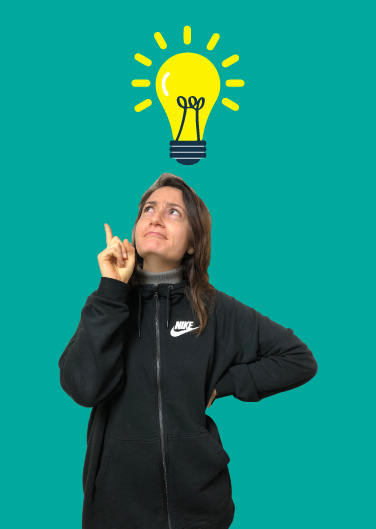
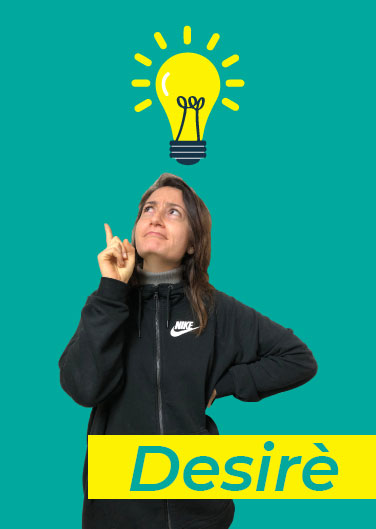
staff ok

diff --git a/style.css b/style.css
@@ -11,7 +11,7 @@
     margin: 0;
     font-family: 'Montserrat', sans-serif;
     color: #2d2d2d;
-    font-size: 12px;
+    font-size: 16px;
 }
 img{
     max-width: 100%;
@@ -91,7 +91,7 @@ header nav .activedifferent{
 div.box{
     background-color: rgba(255, 255, 255, 0.7);
     width: 500px;
-    height: 200px;
+    height: 270px;
     padding: 30px;
     position: relative;
     color: #2d2d2d;
@@ -129,7 +129,7 @@ main h2.titolo-main{
 }
 main article p{
     padding-top: 20px;
-    height: 100px;
+    height: 150px;
 }
 main a{
     text-decoration: none;
@@ -366,13 +366,16 @@ img{
     }
 }
 /* pagina staff */
-.pos1{
-    position: relative;
-}
-.pos2{
-    position: absolute;
-    bottom: 45px;
-    color: #ffffff;
+.banner1{
+    width: 100%;
+    height: 700px;
+    background: url(immagini/staff1.jpg) no-repeat center center;
+    background-size: cover;
+    display: flex;
+    justify-content: center;
+    justify-items: center;
+    align-content: center;
+    align-items: center;
 }
 #btntomain{
     padding-top: 80px;
@@ -382,26 +385,57 @@ img{
     text-align: center;
     font-weight: 600;
     text-shadow: 2px 1px 10px #2d2d2d;
+    color: white;
 }
-aside div.pos2 h2 a{
-    color: #ffffff;
+.container{
+    width: 50%;
+    margin: 2rem auto;
+    display:grid;
+    grid-template-columns: 1fr 1fr;
+    row-gap: 50px;
 }
-main div.displayflex{
-    display: flex;
-    flex-wrap: wrap;
-    justify-content: center;
-}
-main div.displayflex img{
+.boxdescrizione1, 
+.boxdescrizione2{
+    color: #2d2d2d;
+    padding: 10%;
     width: 376px;
     height: 529px;
-    margin: 0 40px 80px 40px;
+}
+.titolo-persona{
+    font-size: 2rem;
+}
+.boxdescrizione1{
+    background-color: #00a99d;
+}
+.boxdescrizione2{
+    background-color: #fdf300;
+}
+main figure img{
     filter: grayscale(100%);
 }
-main div.displayflex img:hover{
+#cambiosara{
+    background: url(immagini/saraspenta.jpg);width:376px;height:529px;display:block;text-indent: -9999px;}
+#cambiosara:hover{
+    background: url(immagini/saraaccesa.jpg);
     filter: none;
-    width: 376px;
-    height: 529px;
-    background: url(immagini/saraaccesa.jpg) no-repeat;
+}
+#cambiolinda{
+    background: url(immagini/lindaspenta.jpg);width:376px;height:529px;display:block;text-indent: -9999px;}
+#cambiolinda:hover{
+    background: url(immagini/lindaaccesa.jpg);
+    filter: none;
+}
+#cambiolavi{
+    background: url(immagini/lavispenta.jpg);width:376px;height:529px;display:block;text-indent: -9999px;}
+#cambiolavi:hover{
+    background: url(immagini/laviaccesa.jpg);
+    filter: none;
+}
+#cambiodesi{
+    background: url(immagini/desispenta.jpg);width:376px;height:529px;display:block;text-indent: -9999px;}
+#cambiodesi:hover{
+    background: url(immagini/desiaccesa.jpg);
+    filter: none;
 }
 /* Pagina Registrati */
 .registrati{
@@ -420,22 +454,25 @@ main div.displayflex img:hover{
 
 /* pulsanti */
 .button-verde{
+    font-size: 16px;
     color: white;
     text-decoration: none; /* eliminare la sottolineatura del testo */
     background: #00a99d;/* sfondo del bottone */
-    padding: 2em; /* padding dal testo dal bordo del bottone */
+    padding: 1em; /* padding dal testo dal bordo del bottone */
     outline: none; /*  eliminare bordo*/ 
     text-align: center;
 }
 .button-giallo{
+    font-size: 16px;
     color: #2d2d2d;
     text-decoration: none; /* eliminare la sottolineatura del testo */
     background: #fdf300;/* sfondo del bottone */
-    padding: 1.4em 3em; /* padding dal testo dal bordo del bottone */
+    padding: 1em; /* padding dal testo dal bordo del bottone */
     outline: none; /*  eliminare bordo*/
 }
 
 .button-facebook{
+    font-size: 16px;
     color: #ffffff;
     font-size: 20px;
     text-decoration: none; /* eliminare la sottolineatura del testo */
@@ -489,11 +526,6 @@ main div.displayflex img:hover{
         position: unset;
         padding-top: 10px;
     }
-    .titolo-staff{
-        font-size: 50px;
-        padding: 0 20px;
-        position: unset;
-    }
     div#logo,
     div#logo:hover{
         width: none;
@@ -502,7 +534,7 @@ main div.displayflex img:hover{
     }
 }
 /* inizio media query da 0 a 600  */
-@media(max-width: 600px){
+@media(max-width: 760px){
     main{
         display: flex;
         flex-direction: column;
@@ -515,7 +547,7 @@ main div.displayflex img:hover{
     }
     div.box{
         width: 450px;
-        height: 300px;
+        height: 400px;
     }
     .banner{
         width: 100%;
@@ -526,7 +558,7 @@ main div.displayflex img:hover{
     }
     main article p{
         padding-top: 20px;
-        height: 100px;
+        height: 200px;
     }
     main article div.box3{
         display: block;
@@ -537,7 +569,7 @@ main div.displayflex img:hover{
         margin-left: 20px;
     }
     .titolo-staff{
-        font-size: 30px;
+        font-size: 45px;
     }
     div#logo,
     div#logo:hover{
@@ -560,6 +592,46 @@ main div.displayflex img:hover{
     main h2.titolo-main{
         padding-top: none;
     }
+    ul{
+        padding: 0 20px;
+    }
+    li a{
+        font-size: 10px;
+    }
+    p{
+        font-size: 20px;
+    }
+    footer p.margintop,
+    footer p.marginbottom{
+        font-size: 12px;
+        padding: 0 20px;
+    }
+    .button-verde, .button-giallo{
+        font-size: 16px;
+    }
+    .allungo{
+        width: 50px;
+    }
+    .boxdescrizione1, 
+    .boxdescrizione2{
+    color: #2d2d2d;
+    padding: 10%;
+    width: 100%;
+    height: auto;
+    }
+    .container{
+        width: 100%;
+    }
+    #btntomain{
+        padding-top: 0px;
+    }
+}
+@media(max-width: 1000px){
+    .container{
+        display: flex;
+        flex-direction: column;
+    }
+    
 }
 
 

diff --git a/staff.html b/staff.html
@@ -28,26 +28,49 @@
         </nav>
     </header>
     <!-- aside -->
-    <aside class="marginmenumissione">
-        <div class="pos1">
-            <img src="immagini/staff1.jpg" alt="immagine laptop">
-            <div class="pos2">
-                <h2 class="titolo-staff">Per la tua AIDEA puoi contare sul nostro STAFF
-                <br>
-                <a href="#btntomain"><span class="fas fa-angle-double-down"></span></a>
-                </h2>
-            </div> 
+    <aside class="banner1 marginmenumissione">
+        <h2 class="titolo-staff">Per la tua AIDEA puoi contare sul nostro STAFF
+            <br>
+            <a  href="#btntomain"><span class="fas fa-angle-double-down titolo-staff"></span></a>
+            </h2>
     </aside>
-    <!-- main -->
-    <main id="btntomain">
-        <div class="displayflex">
-            <section class="colonnestaff"></section><img src="immagini/saraspenta.jpg" alt=""></section>
-            <section class="colonnestaff"><img src="immagini/lindaspenta.jpg" alt=""></section>
-        </div>
-        <div class="displayflex"> 
-            <section class="colonnestaff"><img src="immagini/lavispenta.jpg" alt=""></section>
-            <section class="colonnestaff"><img src="immagini/desispenta.jpg" alt=""></section>
-        </div>
+    <main class="container" id="btntomain">
+        <!-- <div class="displayflex"> -->
+            <figure class="colonnestaff">
+                <img id="cambiosara" alt="">
+            </figure>
+            <div class="boxdescrizione1">
+                <h2 class="titolo-persona">Sara Fossati</h2>
+                <h3>Lorem, ipsum dolor.</h3><br>
+                <p>Lorem ipsum dolor, sit amet consectetur adipisicing elit. Maiores repudiandae fugit dolores similique aspernatur voluptates nesciunt consequuntur, a id molestias libero perspiciatis numquam ipsa molestiae repellendus consequatur, sit reiciendis omnis laboriosam. Dolore dolorum ducimus illo maiores, eos temporibus deserunt, reiciendis nisi facere voluptate unde laborum dolorem ad tempora ut facilis?</p>
+            </div>
+            <div class="boxdescrizione2">
+                <h2 class="titolo-persona">Linda Mazzola</h2>
+                <h3>Lorem, ipsum dolor.</h3><br>
+                <p>Lorem ipsum dolor, sit amet consectetur adipisicing elit. Maiores repudiandae fugit dolores similique aspernatur voluptates nesciunt consequuntur, a id molestias libero perspiciatis numquam ipsa molestiae repellendus consequatur, sit reiciendis omnis laboriosam. Dolore dolorum ducimus illo maiores, eos temporibus deserunt, reiciendis nisi facere voluptate unde laborum dolorem ad tempora ut facilis?</p>
+            </div>
+            <figure class="colonnestaff">
+                <img id="cambiolinda" alt="">
+            </figure>
+        <!-- </div>
+        <div class="displayflex">  -->
+            <figure class="colonnestaff">
+                <img id="cambiolavi" alt="">
+            </figure>
+            <div class="boxdescrizione2">
+                <h2 class="titolo-persona">Lavinia Garau</h2>
+                <h3>Lorem, ipsum dolor.</h3><br>
+                <p>Lorem ipsum dolor, sit amet consectetur adipisicing elit. Maiores repudiandae fugit dolores similique aspernatur voluptates nesciunt consequuntur, a id molestias libero perspiciatis numquam ipsa molestiae repellendus consequatur, sit reiciendis omnis laboriosam. Dolore dolorum ducimus illo maiores, eos temporibus deserunt, reiciendis nisi facere voluptate unde laborum dolorem ad tempora ut facilis?</p>
+            </div> 
+            <div class="boxdescrizione1">
+                <h2 class="titolo-persona">Desirè Lanza</h2>
+                <h3>Lorem, ipsum dolor.</h3><br>
+                <p>Lorem ipsum dolor, sit amet consectetur adipisicing elit. Maiores repudiandae fugit dolores similique aspernatur voluptates nesciunt consequuntur, a id molestias libero perspiciatis numquam ipsa molestiae repellendus consequatur, sit reiciendis omnis laboriosam. Dolore dolorum ducimus illo maiores, eos temporibus deserunt, reiciendis nisi facere voluptate unde laborum dolorem ad tempora ut facilis?</p>
+            </div>
+            <figure class="colonnestaff">
+                <img id="cambiodesi" alt="">
+            </figure>
+        <!-- </div> -->
     </main>
    <!-- footer -->
     <footer>

diff --git a/accedi.html b/accedi.html
@@ -35,11 +35,11 @@
        <h3 class="margin-accedi titolo-box">oppure</h3>   
        <h3 class="margin-accedi titolo-box">Accedi con il numero di telefono</h3>
          <form action="#">
-            <label for="numero.cell">Accedi con il numero di telefono</label>
+            <label for="numero.cell"></label>
             <input type="number" id="Accedi con il numero.cell" name="numero.cell" placeholder="+39">
             <br>
             <br>
-            <input type="password" id="password" name="password" placeholder="password">
+            <input class="allungo" type="password" id="password" name="password" placeholder="password">
             <br>
             <br>
             <input class="button-verde" type="submit" value="Accedi">
